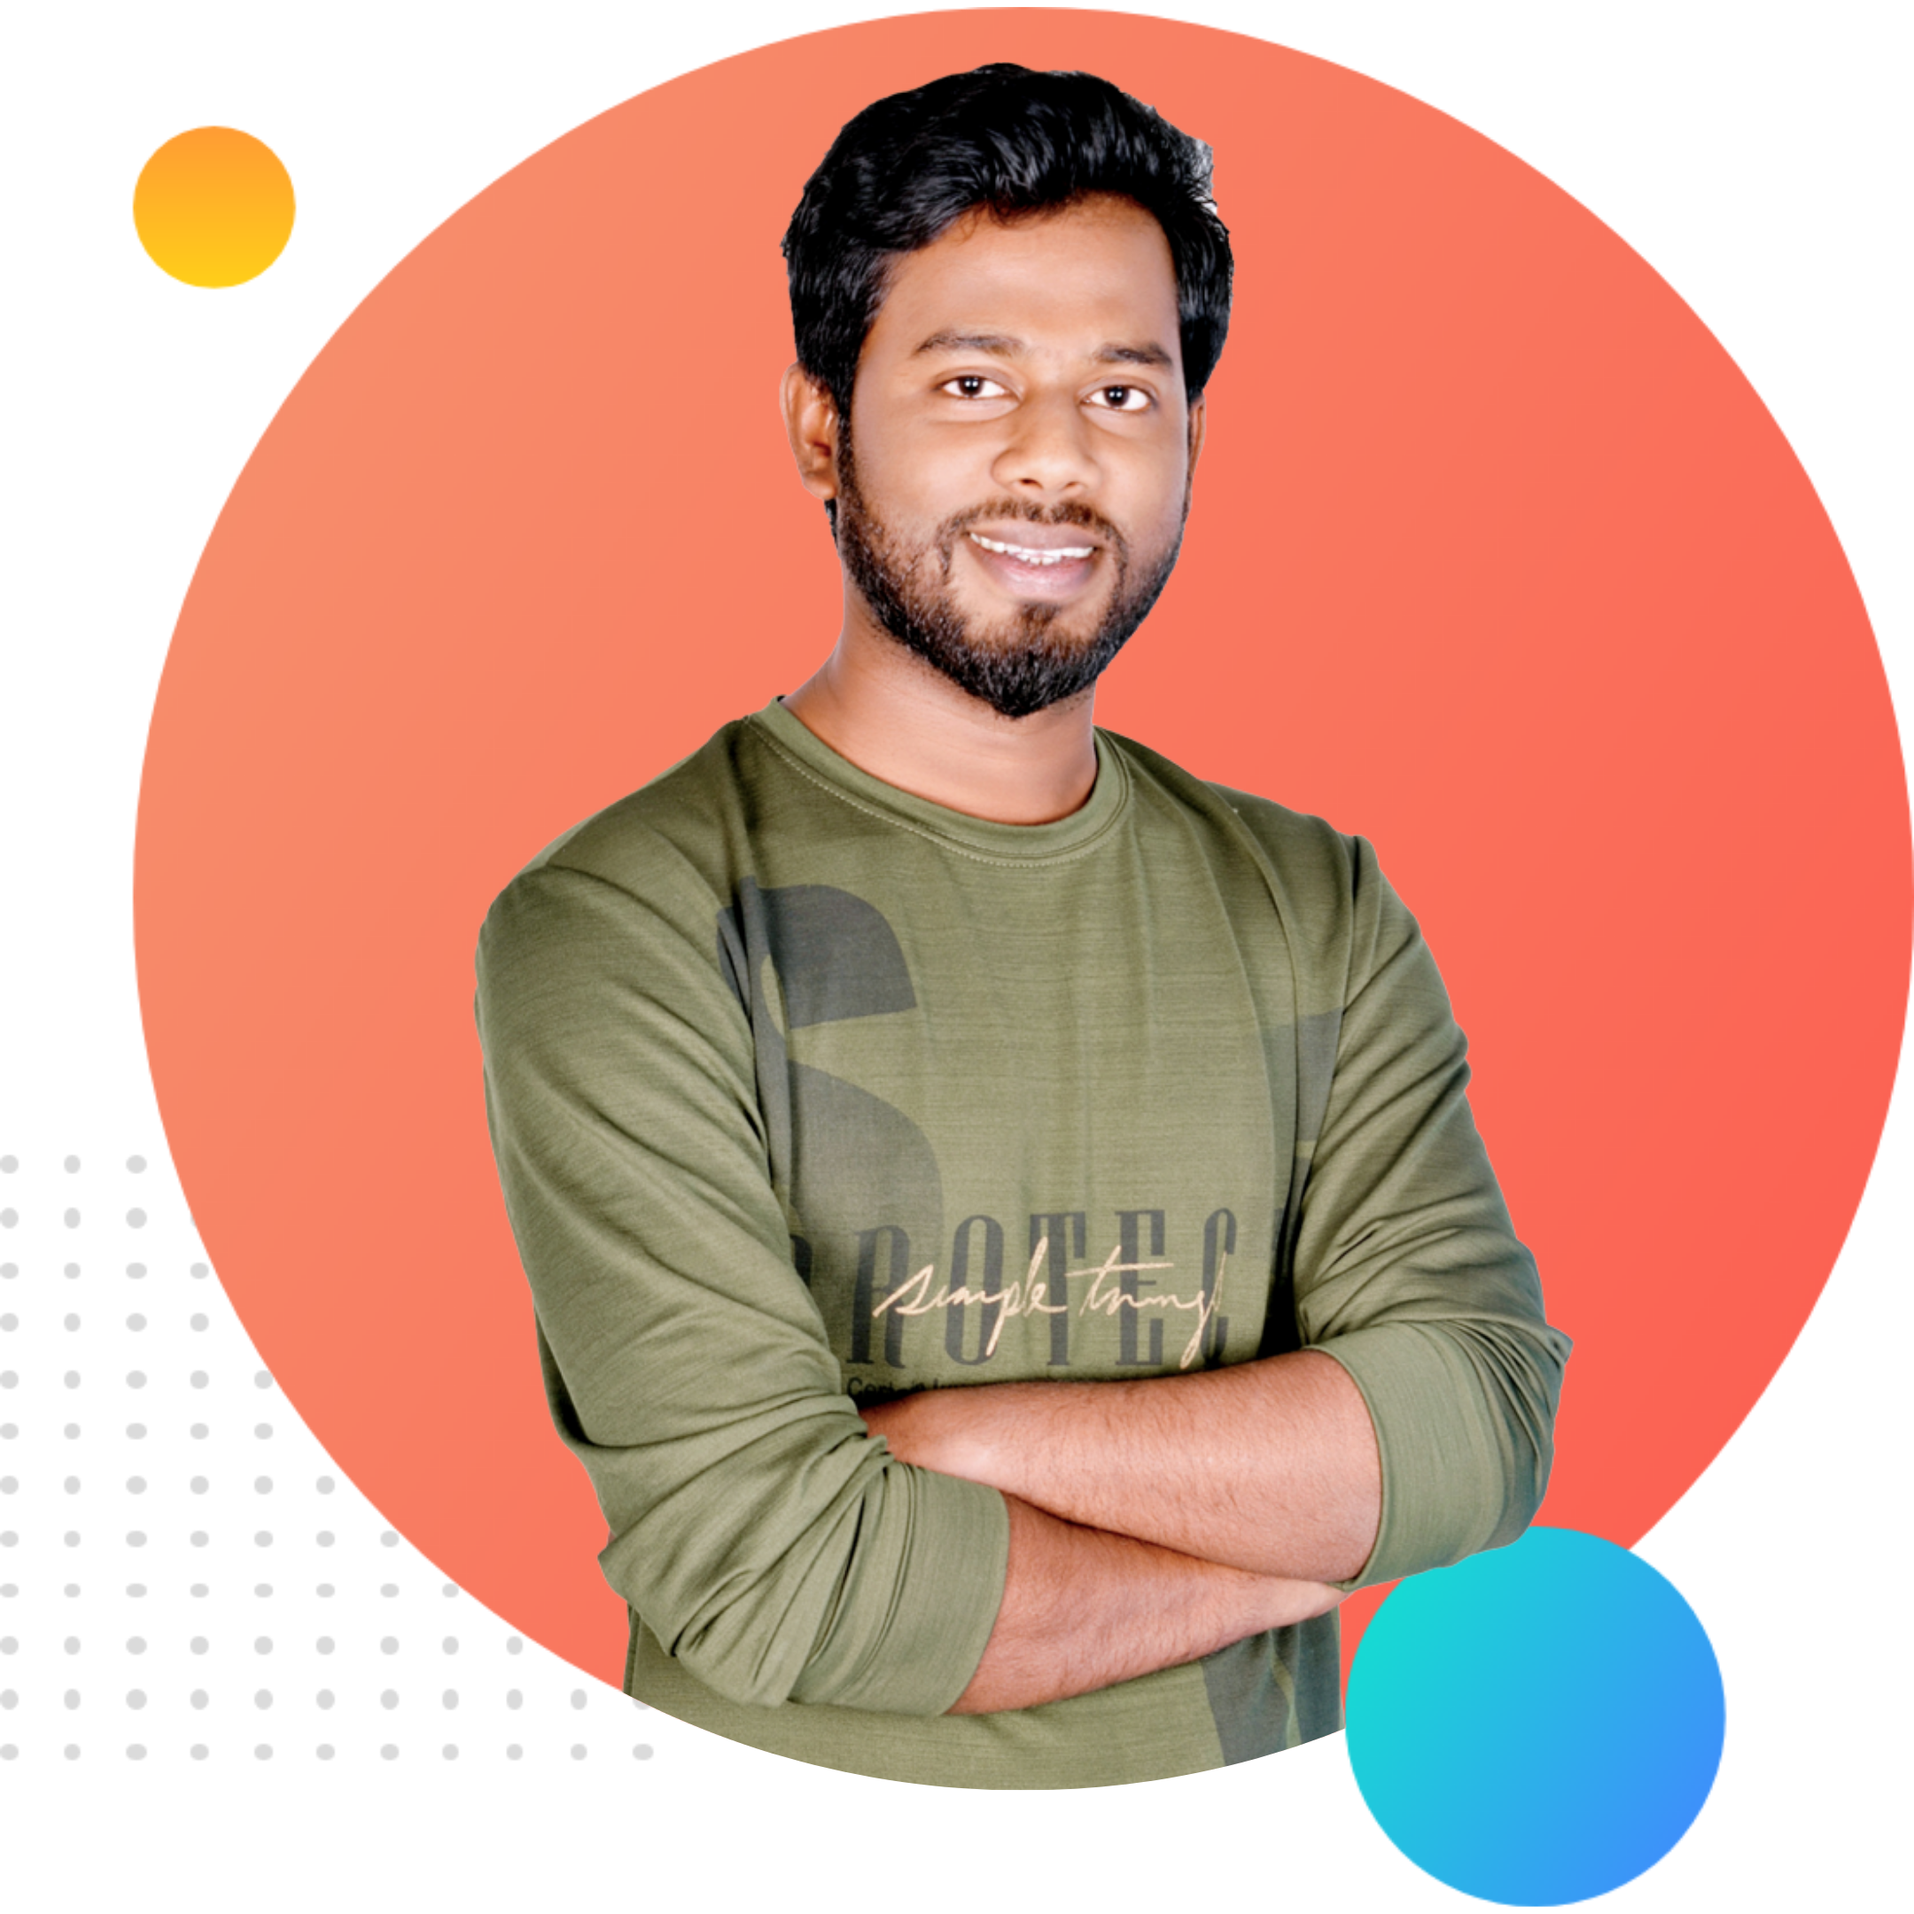
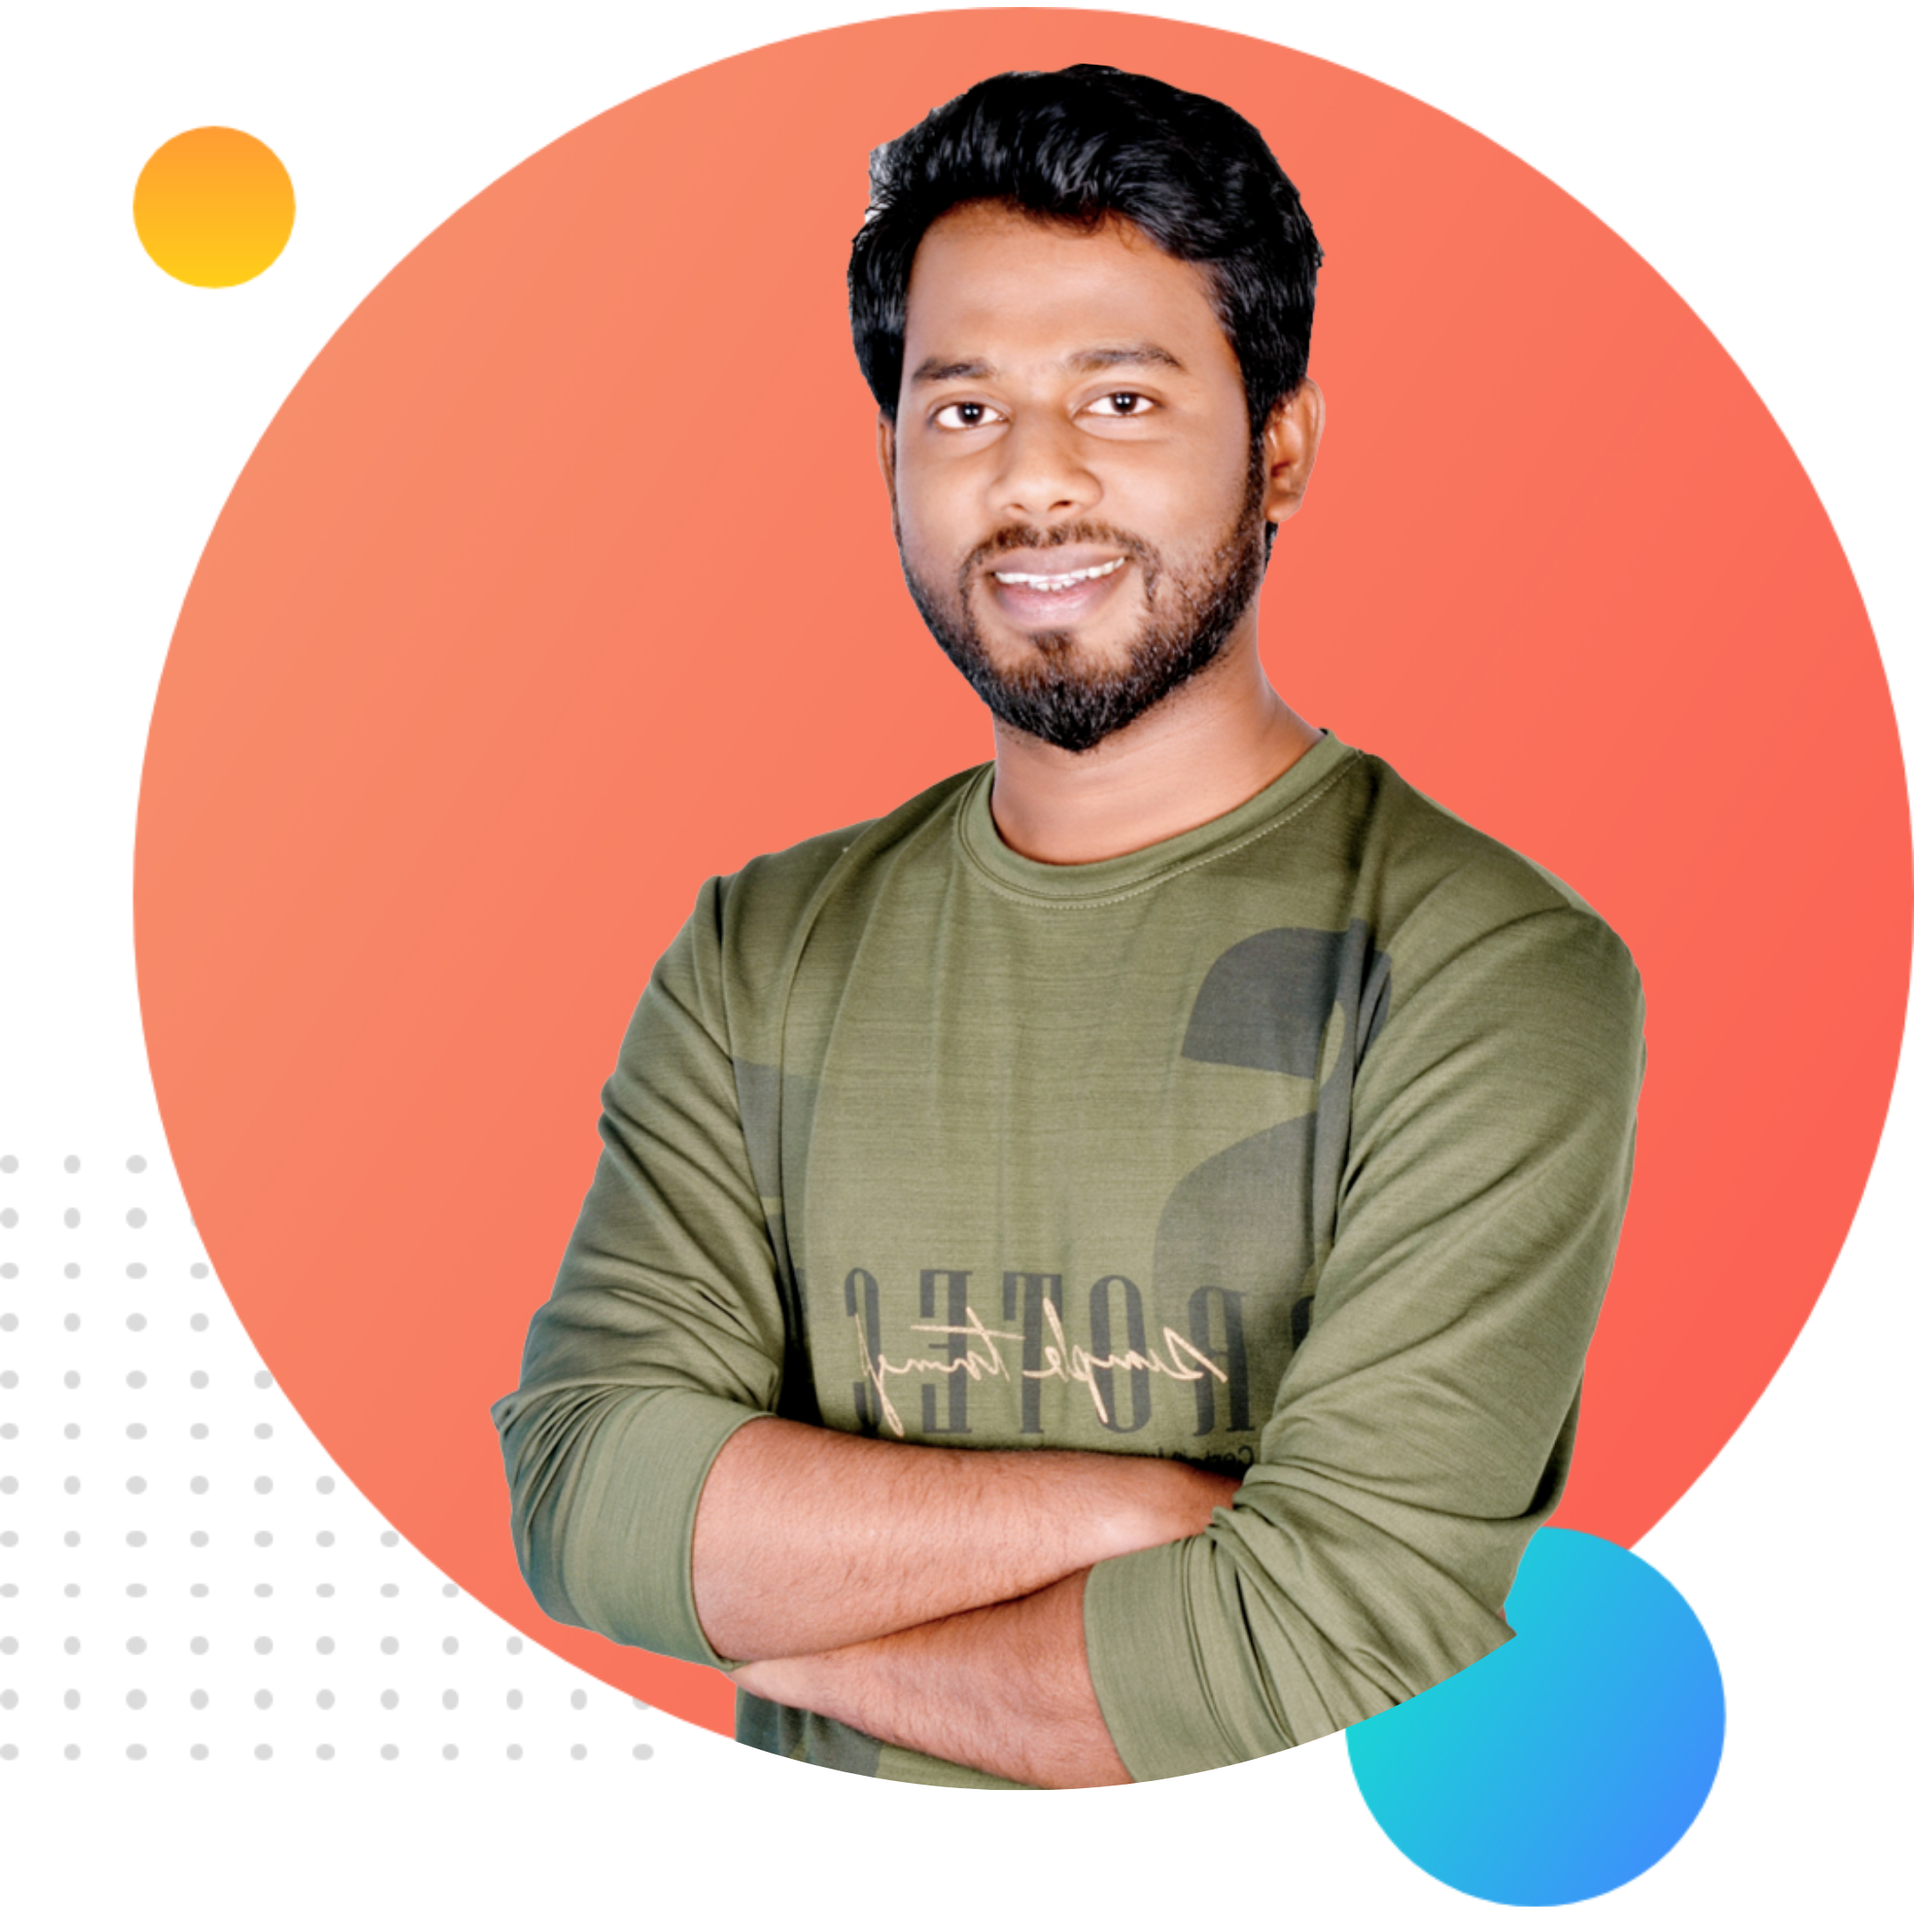
container

Changed region(s): [[0.2481, 0.031, 0.8685, 0.9616]]

diff --git a/index.html b/index.html
@@ -13,7 +13,7 @@
 </head>
 
 <body>
-    <section class="top-banner">
+    <section class="top-banner flexible-container">
         <div class="half-width">
             <h1>Welcome To</h1>
             <h1><span class="orange-color">Shakil Morad</span> World!</h1>
@@ -30,7 +30,7 @@
             <img src="images/sm.png" alt="">
         </div>
     </section>
-    <section class="dream-big">
+    <section class="dream-big flexible-container">
         <div class="half-width">
             <img src="images/s.png" alt="">
         </div>
@@ -41,6 +41,27 @@
                 to make simple website. My goal is to build 3 websites and learn advanced topics.</p>
             <a class="link-button" target="_blank" href="https://www.shakil.work/">DOWNLOAD RESUME</a>
         </div>
+    </section>
+    <section class="experience-area">
+        <h1>Experience</h1>
+        <div class="flexible-container">
+            <div class="half-width">
+                <h1>Full Stack Developer</h1>
+                <h3 class="orange-color">2019-Present | Pro Level Developer</h3>
+                <p>I am the master of HTML, CSS and Javascript. I know everything needed to make a website function,
+                    efficient. I didn't stop with the web. I went beyond with most popular Javascript framework called
+                    Vue
+                    JS. I even know the deployment, server and security. I will give you 100% web solution.</p>
+            </div>
+            <div class="half-width">
+                <h1>Baby Web Developer</h1>
+                <h3 class="orange-color">2018-2019 | Programming Hero Learner</h3>
+                <p>They didn't offer me a job. But I made myself as a remove web developer. I made their website and
+                    showed
+                    it to them. They liked it. And uploaded the content. It was fun working at Programming Hero.</p>
+            </div>
+        </div>
+
     </section>
 </body>
 

diff --git a/style.css b/style.css
@@ -8,13 +8,14 @@ h1{
 .orange-color{
     color:orange;
 }
-section{
+.flexible-container{
     display: flex;
     margin-bottom: 50px;
 }
 .half-width{
     width: 50%;
     padding: 5%;
+    box-shadow: 10px 10px yellowgreen;
 }
 .half-width img{
     width: 80%;
